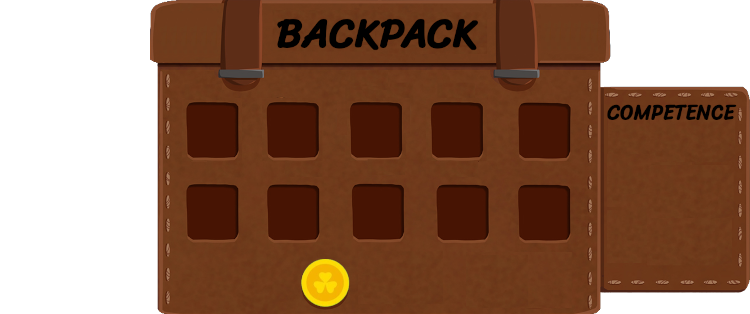
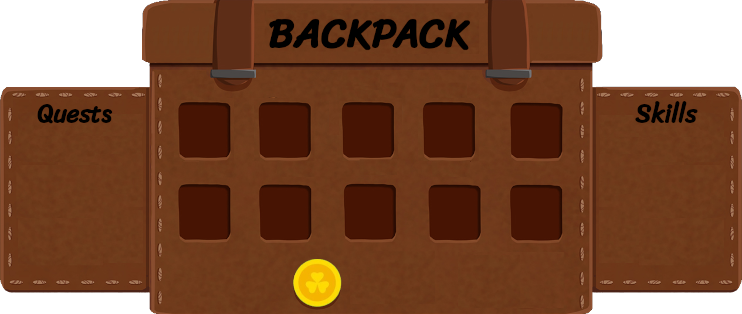
(+) quests and skills inventory

diff --git a/src/spritesheets/init_spritesheets_menu.c b/src/spritesheets/init_spritesheets_menu.c
@@ -58,6 +58,6 @@ void init_soundbox(spritesheet_t *spritesheet)
 void init_inventory(spritesheet_t *spritesheet)
 {
     set_one_sprite("assets/img/menu/inventory.png", &spritesheet[SP_INVENTORY],
-    (init_sprite_t){{WIDTH/2, HEIGHT/2}, {1, 1}, {0, 0, 750, 314},
+    (init_sprite_t){{WIDTH / 2, HEIGHT / 2}, {1, 1}, {0, 0, 742, 314},
     .clickable = false, .active = false, .change_sprite_on_mouse = false});
 }
